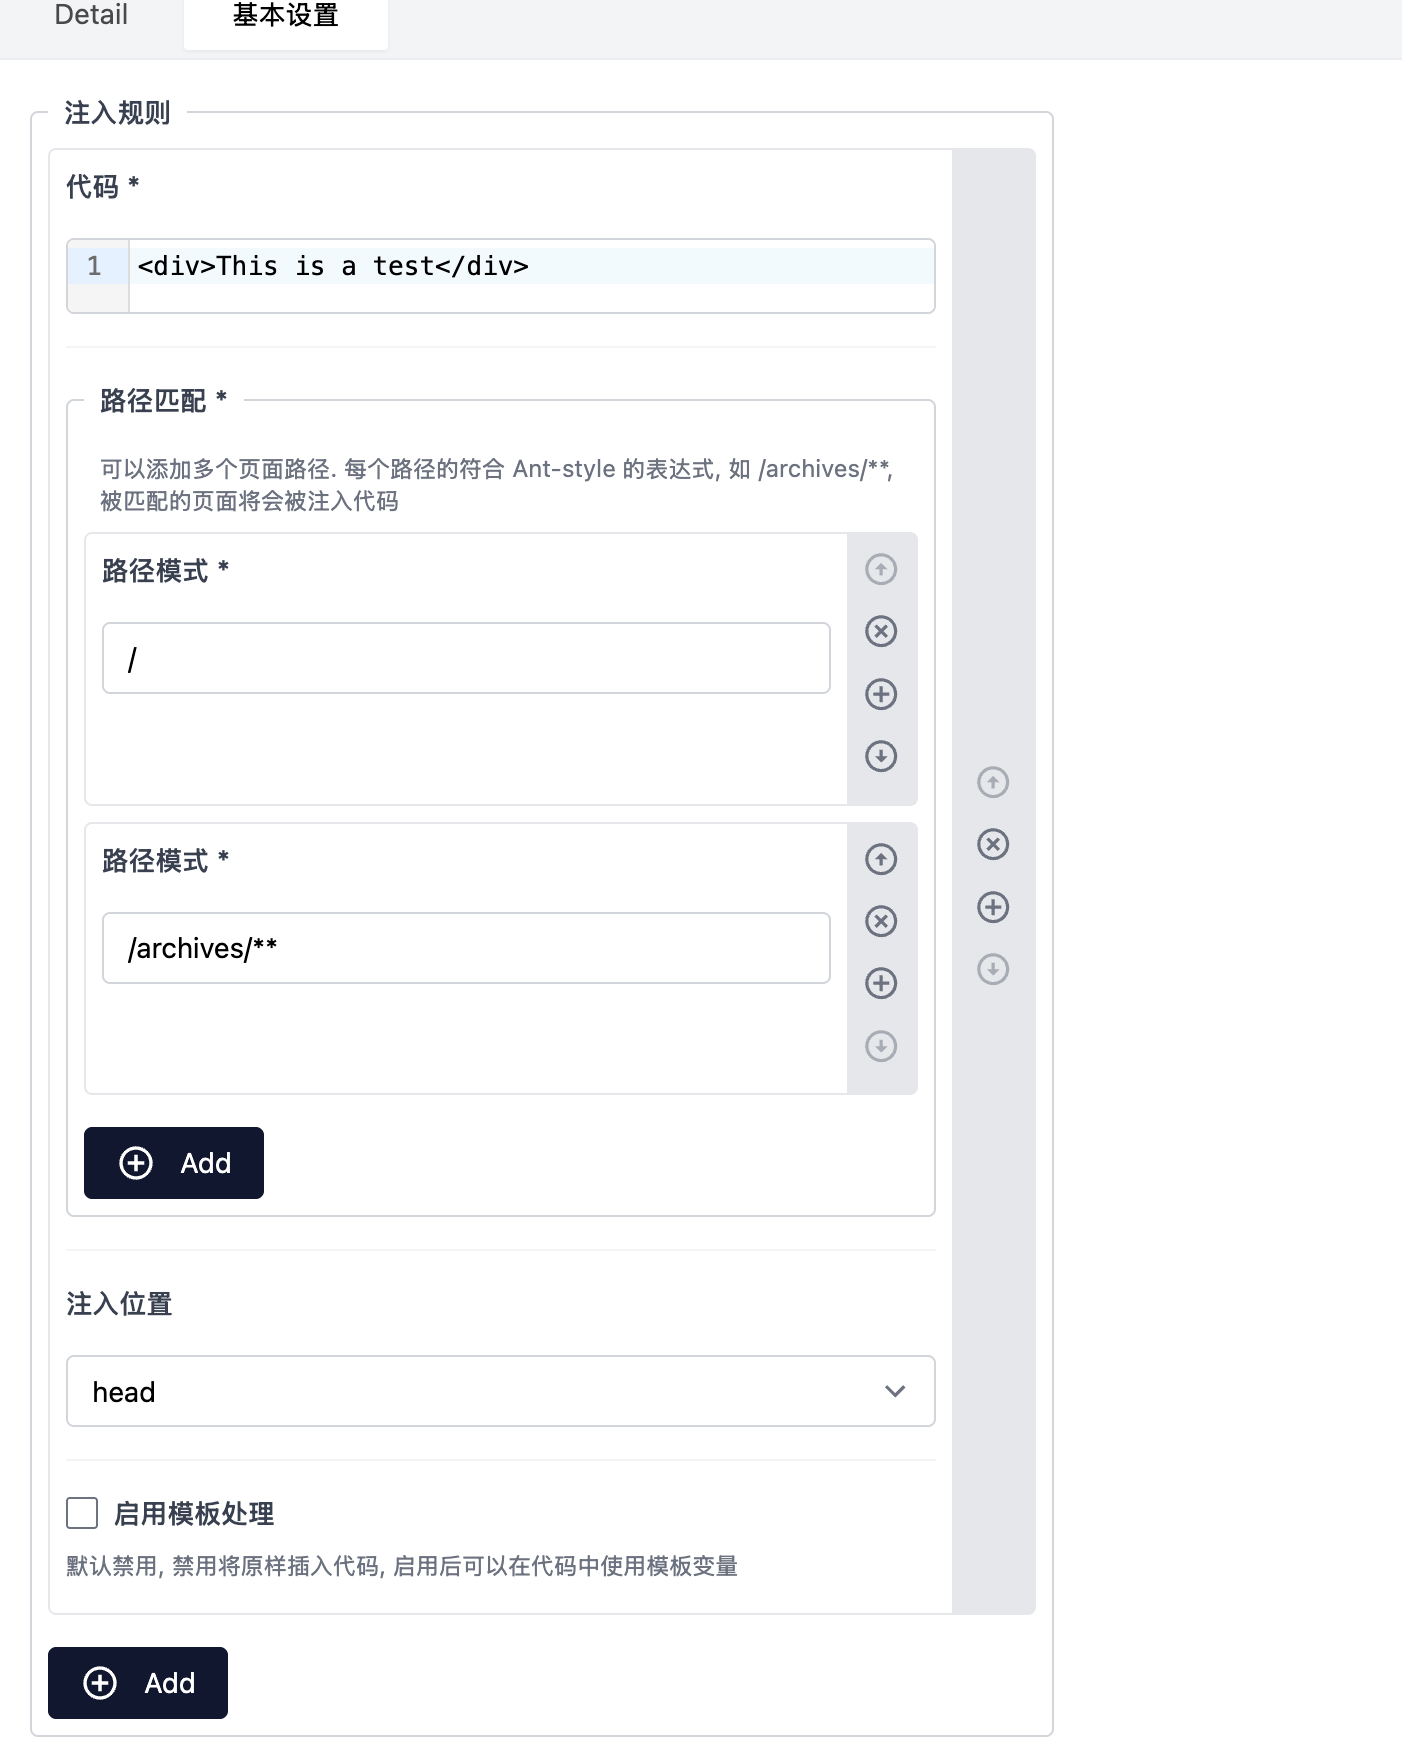
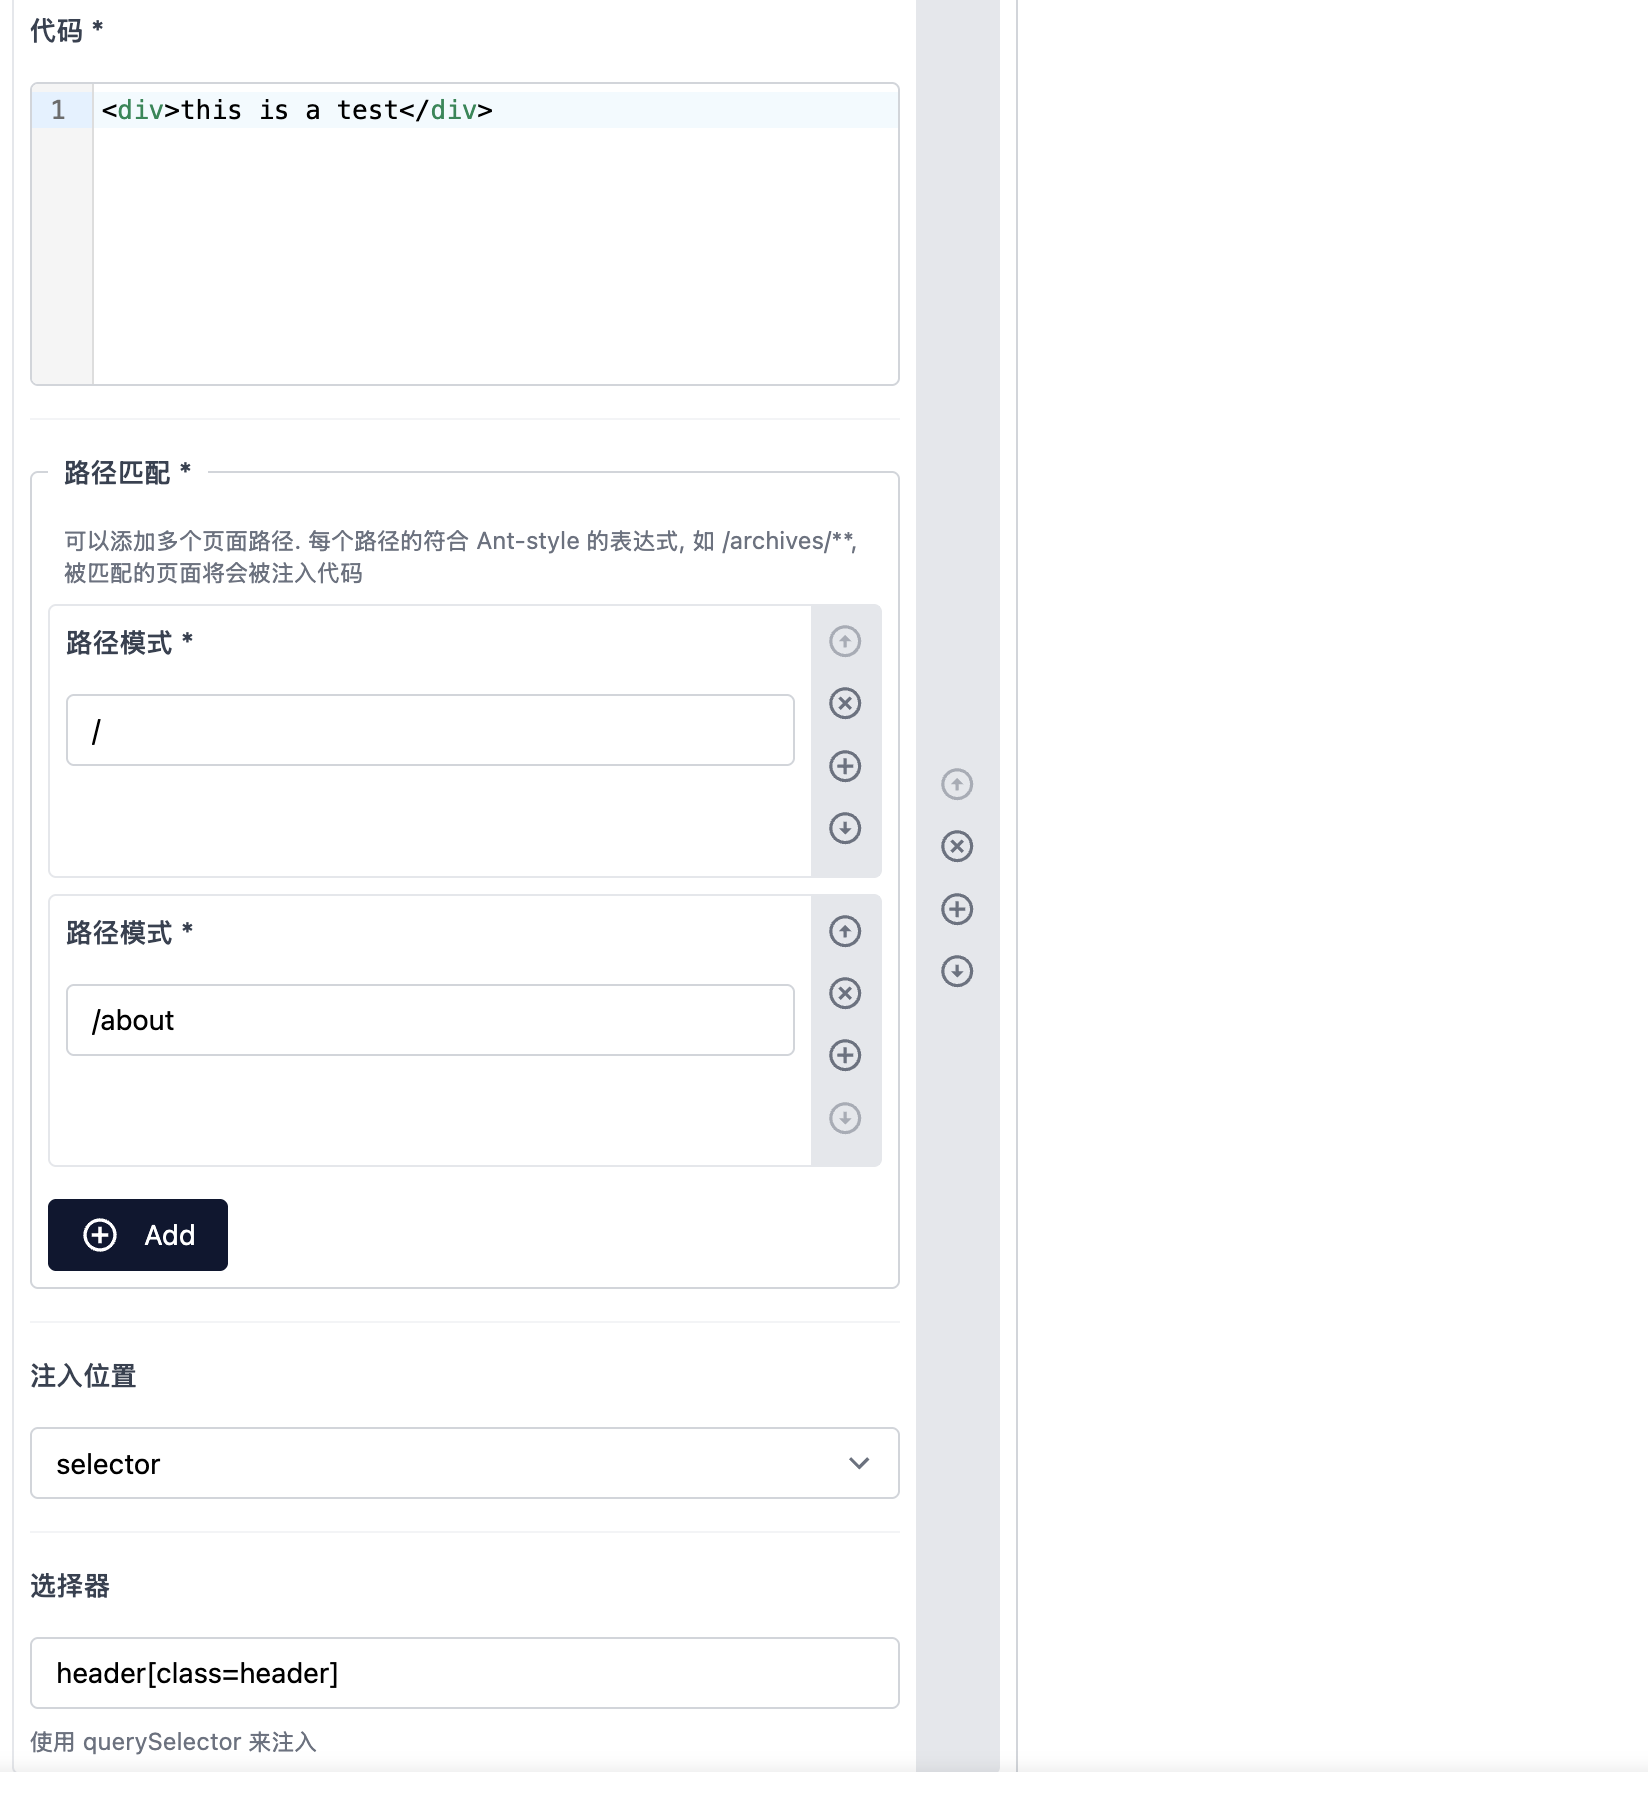
docs

diff --git a/README.md b/README.md
@@ -1,18 +1,23 @@
-## 简介
-
 这是一个用于将 HTML 代码注入到指定页面的插件
 
 Halo 默认提供的代码注入功能只有全局注入, 无法注入到指定页面
+
+## 功能
+- 支持按页面路径注入 HTML 代码 
+- 可注入到：
+  - `<footer>` 标签
+  - `<head>` 标签 
+  - 指定 `id` 的元素 
+  - 匹配 `CSS selector` 的元素
+![preview](assets/images/preview.png)
 
 ## 说明
 
 **插件不提供代码验证**
 
-可以将一段代码插入到多个匹配到的页面, 并且可以选择插入到 `head` 还是 `footer`
-
-- 如果是插入到 `head`, 需要注意合法性. 比如 `<div>` 这样的元素是不会插入到 `<head>`, 而会直接插入到 `<body>`
+- 如果是插入到 `<head>`, 需要注意合法性. 比如 `<div>` 这样的元素是不会插入到 `<head>`, 而会直接插入到 `<body>`
 的第一个子元素 
-- 插入到 `footer` 会插入到 `<halo:footer/>` 中, 这个通常由主题来控制位置
+- 插入到 `<footer>` 会插入到 `<halo:footer/>` 中, 这个通常由主题来控制位置
 
 点击查看示例配置: <a href="assets/images/config.png" alt="example">example</a>
 
